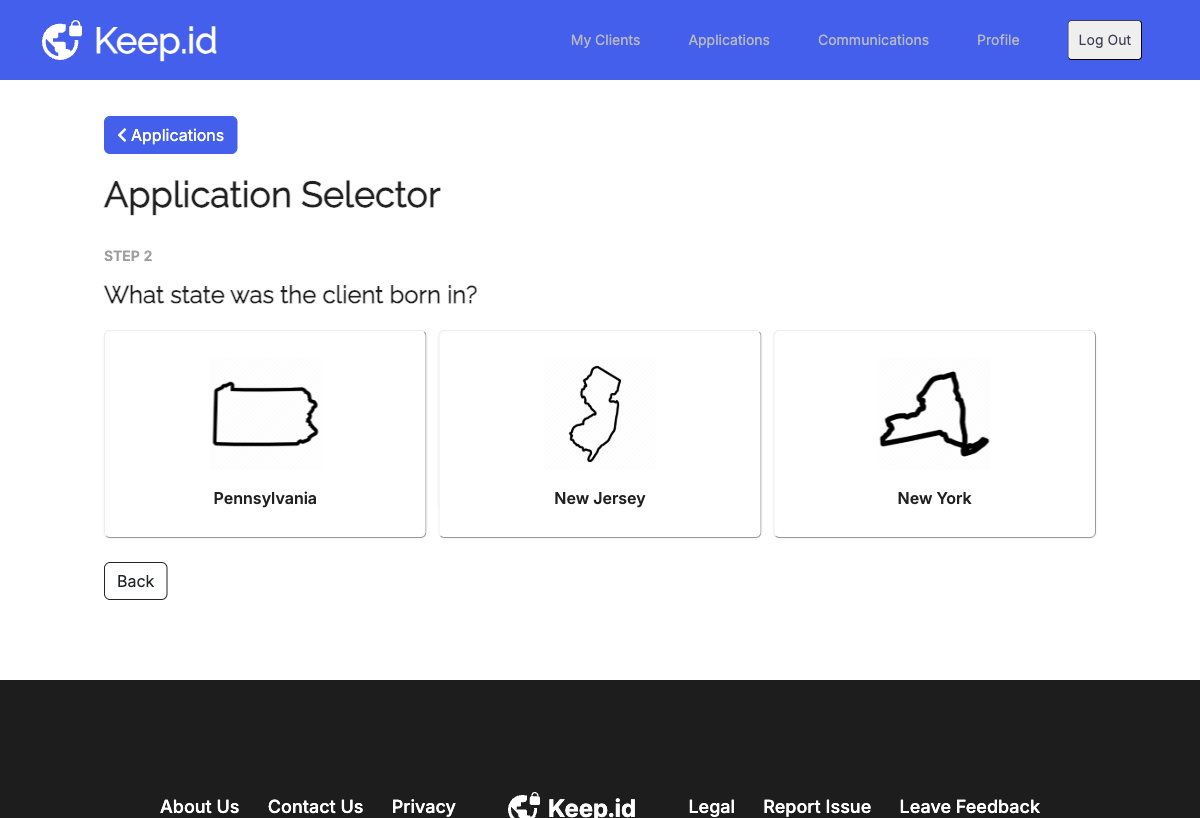
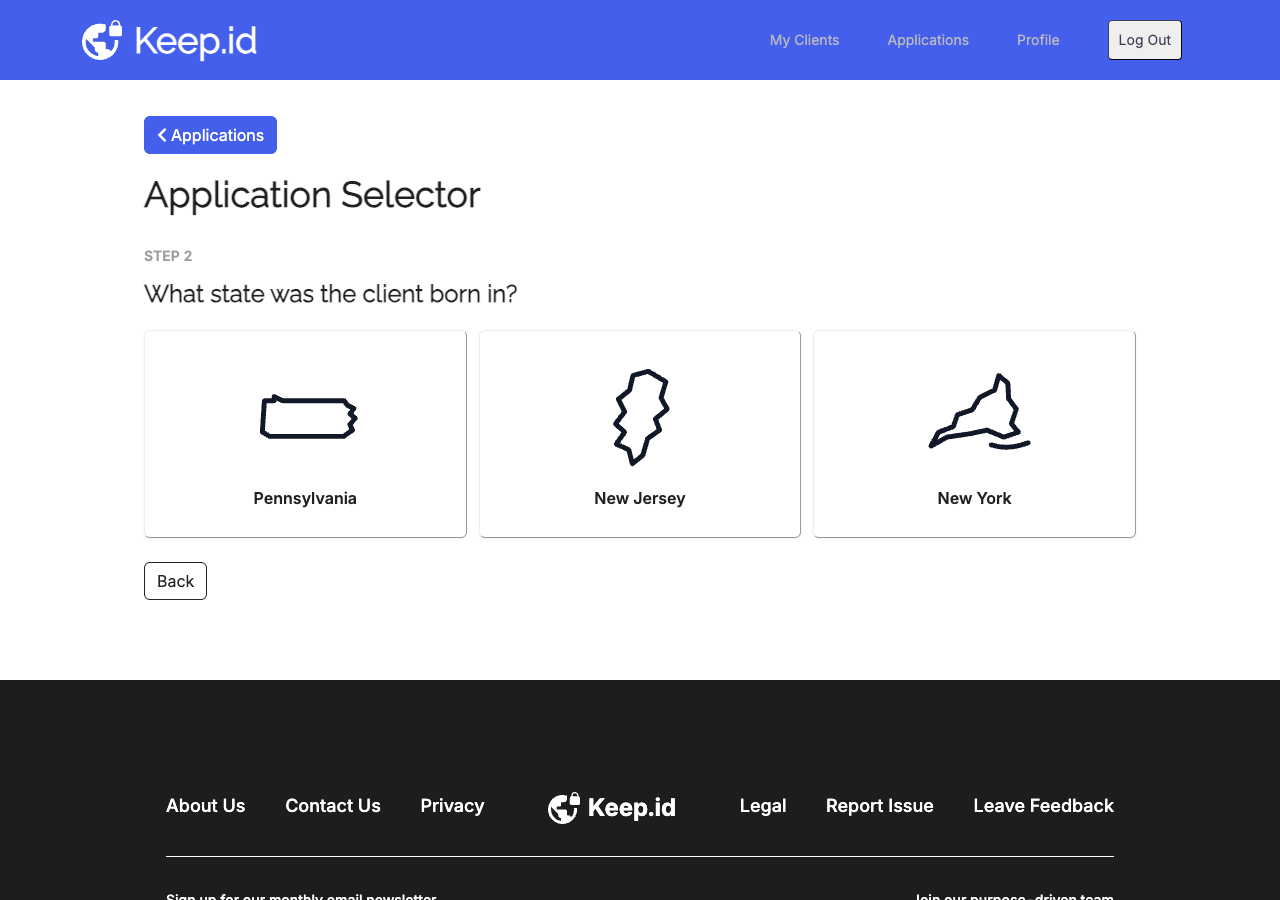
Polish application selector list UI

diff --git a/src/components/Applications/ViewApplications.tsx b/src/components/Applications/ViewApplications.tsx
@@ -454,7 +454,22 @@ class ViewApplications extends Component<Props & RouteComponentProps, State, {}>
     if (availableApplications.length === 0) return null;
 
     return (
-      <div className="tw-border-b tw-border-gray-200 tw-bg-gray-50 tw-px-4 tw-py-3">
+      <div className="tw-border-b tw-border-gray-200 tw-bg-gray-50 tw-px-4 tw-py-4">
+        <div className="tw-mb-3 tw-flex tw-flex-wrap tw-items-center tw-justify-between tw-gap-2">
+          <span className="tw-text-sm tw-font-semibold tw-text-gray-900">Filters</span>
+          <span className="tw-flex tw-items-center tw-gap-3 tw-text-xs tw-text-gray-500">
+            Showing {filteredApplications.length} of {availableApplications.length}
+            {hasFilters && (
+              <button
+                type="button"
+                className="btn btn-sm btn-outline-secondary"
+                onClick={this.clearApplicationFilters}
+              >
+                Reset
+              </button>
+            )}
+          </span>
+        </div>
         <div className="tw-grid tw-grid-cols-1 tw-gap-3 sm:tw-grid-cols-3">
           <label htmlFor="application-housing-filter" className="tw-text-xs tw-font-semibold tw-text-gray-700">
             Housing
@@ -502,20 +517,6 @@ class ViewApplications extends Component<Props & RouteComponentProps, State, {}>
             </select>
           </label>
         </div>
-        <div className="tw-mt-2 tw-flex tw-items-center tw-justify-between tw-gap-3 tw-text-xs tw-text-gray-500">
-          <span>
-            Showing {filteredApplications.length} of {availableApplications.length}
-          </span>
-          {hasFilters && (
-            <button
-              type="button"
-              className="tw-border-0 tw-bg-transparent tw-p-0 tw-font-medium tw-text-twprimary hover:tw-underline"
-              onClick={this.clearApplicationFilters}
-            >
-              Clear filters
-            </button>
-          )}
-        </div>
       </div>
     );
   };
@@ -545,7 +546,7 @@ class ViewApplications extends Component<Props & RouteComponentProps, State, {}>
               startAtReview: true,
             },
           }}
-          className="tw-flex tw-items-center tw-justify-between tw-gap-4 tw-border-b tw-border-gray-200 tw-px-4 tw-py-3 tw-text-sm tw-no-underline hover:tw-bg-blue-50"
+          className="tw-flex tw-items-center tw-justify-between tw-gap-4 tw-border-b tw-border-gray-200 tw-bg-white tw-px-4 tw-py-3 tw-text-sm tw-no-underline last:tw-border-b-0 hover:tw-bg-blue-50"
         >
           <span className="tw-min-w-0">
             <span className="tw-block tw-truncate tw-font-medium tw-text-gray-900">
@@ -561,14 +562,14 @@ class ViewApplications extends Component<Props & RouteComponentProps, State, {}>
 
     if (availableApplications.length > 0) {
       return (
-        <div className="tw-border-b tw-border-gray-200 tw-px-4 tw-py-4 tw-text-sm tw-text-gray-500">
+        <div className="tw-px-4 tw-py-4 tw-text-sm tw-text-gray-500">
           No supported forms match these filters.
         </div>
       );
     }
 
     return (
-      <div className="tw-border-b tw-border-gray-200 tw-px-4 tw-py-4 tw-text-sm tw-text-gray-500">
+      <div className="tw-px-4 tw-py-4 tw-text-sm tw-text-gray-500">
         No supported forms are available.
       </div>
     );
@@ -1225,42 +1226,40 @@ class ViewApplications extends Component<Props & RouteComponentProps, State, {}>
                 <div className="tw-flex tw-items-center tw-justify-between tw-gap-3 tw-mb-3">
                   <h2 className="h5 tw-mb-0">Start a new application</h2>
                 </div>
-                <div className="tw-overflow-hidden tw-rounded-md tw-border tw-border-gray-200 tw-bg-white">
-                  {clientUsername && (
-                    <Link
-                      to={{
-                        pathname: '/applications/selector',
-                        state: {
-                          clientUsername,
-                          clientName: clientName || '',
-                        },
-                      }}
-                      className="tw-flex tw-items-center tw-justify-between tw-gap-4 tw-border-b tw-border-gray-200 tw-bg-blue-50 tw-px-4 tw-py-4 tw-text-sm tw-no-underline hover:tw-bg-blue-100"
-                    >
-                      <span className="tw-flex tw-min-w-0 tw-items-center tw-gap-3">
-                        <img
-                          src={
-                            applicationSelectorFlowDefinition.listImageUrl
-                            || '/SelectApplicationForm/pennsylvania.svg'
-                          }
-                          alt=""
-                          aria-hidden="true"
-                          className="tw-h-9 tw-w-9 tw-shrink-0"
-                        />
-                        <span className="tw-min-w-0">
-                          <span className="tw-block tw-truncate tw-font-semibold tw-text-gray-900">
-                            Application Selector
-                          </span>
-                          <span className="tw-block tw-truncate tw-text-xs tw-text-gray-600">
-                            Guided application selection
-                          </span>
-                        </span>
+                {clientUsername && (
+                  <Link
+                    to={{
+                      pathname: '/applications/selector',
+                      state: {
+                        clientUsername,
+                        clientName: clientName || '',
+                      },
+                    }}
+                    className="tw-mb-4 tw-flex tw-items-center tw-justify-between tw-gap-4 tw-rounded-md tw-border tw-border-blue-100 tw-bg-blue-50 tw-px-4 tw-py-4 tw-text-sm tw-no-underline tw-shadow-sm hover:tw-bg-blue-100"
+                  >
+                    <span className="tw-flex tw-min-w-0 tw-items-center tw-gap-3">
+                      <img
+                        src={
+                          applicationSelectorFlowDefinition.listImageUrl
+                          || '/SelectApplicationForm/pennsylvania.svg'
+                        }
+                        alt=""
+                        aria-hidden="true"
+                        className="tw-h-10 tw-w-10 tw-shrink-0"
+                      />
+                      <span className="tw-block tw-min-w-0 tw-truncate tw-font-semibold tw-text-gray-900">
+                        Application Selector
                       </span>
-                      <span className="tw-flex tw-shrink-0 tw-items-center tw-gap-2 tw-font-medium tw-text-twprimary">
-                        <span className="tw-hidden sm:tw-inline">Start</span>
-                      </span>
-                    </Link>
-                  )}
+                    </span>
+                    <span className="tw-flex tw-shrink-0 tw-items-center tw-gap-2 tw-font-medium tw-text-twprimary">
+                      <span className="tw-hidden sm:tw-inline">Start</span>
+                    </span>
+                  </Link>
+                )}
+                <div className="tw-overflow-hidden tw-rounded-md tw-border tw-border-gray-200 tw-bg-white tw-shadow-sm">
+                  <div className="tw-border-b tw-border-gray-200 tw-bg-white tw-px-4 tw-py-3">
+                    <h3 className="tw-mb-0 tw-text-sm tw-font-semibold tw-text-gray-900">Available forms</h3>
+                  </div>
                   {this.renderApplicationFilters(availableApplications, filteredAvailableApplications)}
                   {this.renderAvailableApplicationRows(
                     availableApplications,
@@ -1268,6 +1267,8 @@ class ViewApplications extends Component<Props & RouteComponentProps, State, {}>
                     clientUsername,
                     clientName,
                   )}
+                </div>
+                <div className="tw-mt-3 tw-overflow-hidden tw-rounded-md tw-border tw-border-gray-200 tw-bg-white">
                   <div className="tw-border-b tw-border-gray-200 tw-bg-white">
                     <button
                       type="button"